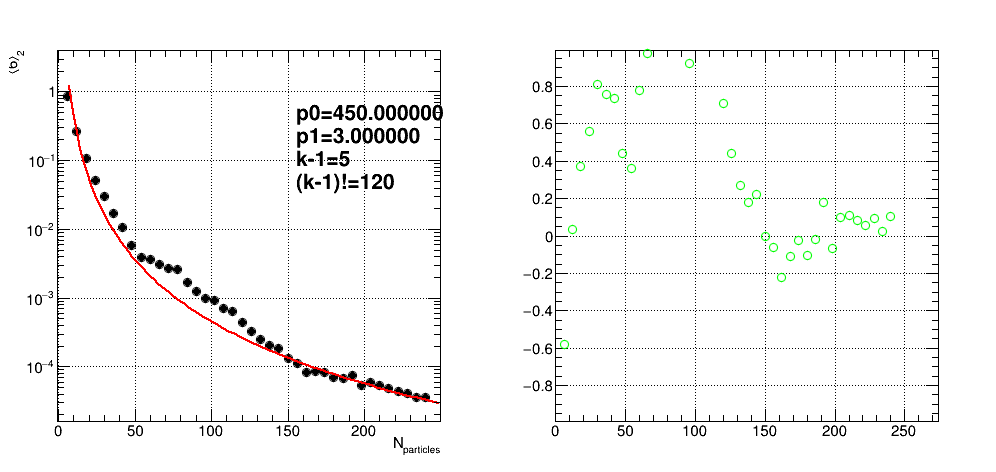
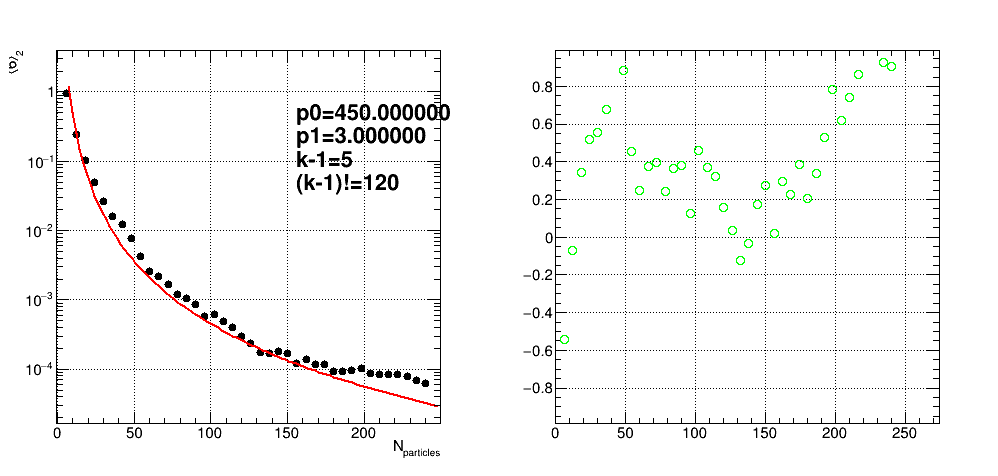
Added double Harmonics

diff --git a/RanGenX.C b/RanGenX.C
@@ -36,7 +36,9 @@ void execute(int sequences, int nparticles, int ntuple, int harmonic, double spa
 
   Init(nparticles); // initialize histograms
 
+  //cout<<"Generating Correlations."<<endl;
   // --- generate the correlations
+  //cout<<"Breaking around here."<<endl;
   for ( int j = 0; j < sequences; ++j )
     {
       if ( j % 10 == 0 ) cout << "Executing sequence j = " << j << endl;
@@ -45,7 +47,7 @@ void execute(int sequences, int nparticles, int ntuple, int harmonic, double spa
 	  get_corr(i,ntuple,harmonic,space,seed);
 	}
     }
-
+  //cout<<"Done Generating Correlations."<<endl;
   // --- Use a time struct to get the current date and time to append to the output file names
   time_t t = time(NULL);
   struct tm tm = *localtime(&t);
@@ -67,6 +69,7 @@ void execute(int sequences, int nparticles, int ntuple, int harmonic, double spa
   //--- make an output file to write the histograms
   TFile* HistFile = new TFile(outfilename,"recreate");
   HistFile->cd();
+  cout<<"Writing Hists to File."<<endl;
   // --- write recursion histo
   for ( int cs = 0; cs < 2; ++cs )
     {
@@ -75,10 +78,13 @@ void execute(int sequences, int nparticles, int ntuple, int harmonic, double spa
 	  hmult_recursion[cs][c]->Write();
         }
     }
+  //cout<<"Writing File"<<endl;
   HistFile->Write();
   cout << "Wrote histogram file " << HistFile->GetName() << endl;
+  HistFile->Close();
   delete HistFile;
 
+  //cout<<"Deleting Hists."<<endl;
   Delete(); // delete histograms
 
   gettimeofday(&Time,0);
@@ -107,7 +113,7 @@ void get_corr(int nparticles, int ntuple, int harmonic, double space, int seed)
   // than 100 and adds 1 -- if more than 100, than the program stops
 
   //int stop = nparticles/ntuple;
-
+  //cout<<"Starting For loop over particles"<<endl;
   for ( int i = 0; i < nparticles; ++i )
     {
       //double means an exact number, phi1 is the name of the double for particle 1.
@@ -157,9 +163,10 @@ void get_corr(int nparticles, int ntuple, int harmonic, double space, int seed)
 
 
     } // end of nparticles for loop
-
+  //cout<<"Done Generating Particles, doing Recursion"<<endl;
   do_recursion(ang,harmonic);
-
+  //cout<<"Done with Recursion"<<endl;
+  
   return;
 
 } //end of get_corr
@@ -262,10 +269,83 @@ void do_recursion(vector<double>& ang, int harmonic)
   hmult_recursion[0][6]->Fill(mult,eightRecursion.Re(),wEightRecursion);
   hmult_recursion[1][6]->Fill(mult,eightRecursion.Im(),wEightRecursion);
 
+
+
+  // ---------------------------------------------------------------------------------------
+  // ---------------------------------------------------------------------------------------
+  // ---------------------------------------------------------------------------------------
+
+
+
+  int d_harmonic = 2*harmonic;
+  
+  //  2-p correlations
+  int d_harmonics_Two_Num[2] = {d_harmonic,-d_harmonic}; // d_harmonic*(1,-1)
+  int d_harmonics_Two_Den[2] = {0,0}; // recursion gives the right combinatorics
+  TComplex twod_Recursion = Recursion(2,d_harmonics_Two_Num)/Recursion(2,d_harmonics_Two_Den).Re();
+  //double spwTwod_Recursion = Recursion(2,d_harmonics_Two_Den).Re();
+  double wTwod_Recursion = 1.0;
+  d_hmult_recursion[0][0]->Fill(mult,twod_Recursion.Re(),wTwod_Recursion);
+  d_hmult_recursion[1][0]->Fill(mult,twod_Recursion.Im(),wTwod_Recursion);
+
+  //  3-p correlations
+  int d_harmonics_Three_Num[3] = {d_harmonic,d_harmonic,-2*d_harmonic}; // d_harmonic*(1,1,-2)
+  int d_harmonics_Three_Den[3] = {0,0,0}; // recursion gives the right combinatorics
+  TComplex threed_Recursion = Recursion(3,d_harmonics_Three_Num)/Recursion(3,d_harmonics_Three_Den).Re();
+  //double spwThreed_Recursion = Recursion(3,d_harmonics_Three_Den).Re();
+  double wThreed_Recursion = 1.0;
+  d_hmult_recursion[0][1]->Fill(mult,threed_Recursion.Re(),wThreed_Recursion);
+  d_hmult_recursion[1][1]->Fill(mult,threed_Recursion.Im(),wThreed_Recursion);
+
+  //  4-p correlations
+  int d_harmonics_Four_Num[4] = {d_harmonic,d_harmonic,-d_harmonic,-d_harmonic}; // d_harmonic*(1,1,-1,-1)
+  int d_harmonics_Four_Den[4] = {0,0,0,0};
+  TComplex fourd_Recursion = Recursion(4,d_harmonics_Four_Num)/Recursion(4,d_harmonics_Four_Den).Re();
+  //double spwFourd_Recursion = Recursion(4,d_harmonics_Four_Den).Re();
+  double wFourd_Recursion = 1.0;
+  d_hmult_recursion[0][2]->Fill(mult,fourd_Recursion.Re(),wFourd_Recursion);
+  d_hmult_recursion[1][2]->Fill(mult,fourd_Recursion.Im(),wFourd_Recursion);
+
+  //  5-p correlations
+  int d_harmonics_Five_Num[5] = {d_harmonic,d_harmonic,d_harmonic,-d_harmonic,-2*d_harmonic}; // d_harmonic*(1,1,1,-1,-2)
+  int d_harmonics_Five_Den[5] = {0,0,0,0,0}; // recursion gives the right combinatorics
+  TComplex fived_Recursion = Recursion(5,d_harmonics_Five_Num)/Recursion(5,d_harmonics_Five_Den).Re();
+  //double spwFived_Recursion = Recursion(5,d_harmonics_Five_Den).Re();
+  double wFived_Recursion = 1.0;
+  d_hmult_recursion[0][3]->Fill(mult,fived_Recursion.Re(),wFived_Recursion);
+  d_hmult_recursion[1][3]->Fill(mult,fived_Recursion.Im(),wFived_Recursion);
+
+  //  6-p correlations:
+  int d_harmonics_Six_Num[6] = {d_harmonic,d_harmonic,d_harmonic,-d_harmonic,-d_harmonic,-d_harmonic}; // d_harmonic*(1,1,1,-1,-1,-1)
+  int d_harmonics_Six_Den[6] = {0,0,0,0,0,0};
+  TComplex sixd_Recursion = Recursion(6,d_harmonics_Six_Num)/Recursion(6,d_harmonics_Six_Den).Re();
+  //double spwSixd_Recursion = Recursion(6,d_harmonics_Six_Den).Re();
+  double wSixd_Recursion = 1.0;
+  d_hmult_recursion[0][4]->Fill(mult,sixd_Recursion.Re(),wSixd_Recursion);
+  d_hmult_recursion[1][4]->Fill(mult,sixd_Recursion.Im(),wSixd_Recursion);
+
+  //  7-p correlations
+  int d_harmonics_Seven_Num[7] = {d_harmonic,d_harmonic,d_harmonic,d_harmonic,-d_harmonic,-d_harmonic,-2*d_harmonic}; // d_harmonic*(1,1,1,1,-1,-1,-2)
+  int d_harmonics_Seven_Den[7] = {0,0,0,0,0,0,0}; // recursion gives the right combinatorics
+  TComplex sevend_Recursion = Recursion(7,d_harmonics_Seven_Num)/Recursion(7,d_harmonics_Seven_Den).Re();
+  //double spwSevend_Recursion = Recursion(7,d_harmonics_Seven_Den).Re();
+  double wSevend_Recursion = 1.0;
+  d_hmult_recursion[0][5]->Fill(mult,sevend_Recursion.Re(),wSevend_Recursion);
+  d_hmult_recursion[1][5]->Fill(mult,sevend_Recursion.Im(),wSevend_Recursion);
+
+  //  8-p correlations
+  int d_harmonics_Eight_Num[8] = {d_harmonic,d_harmonic,d_harmonic,d_harmonic,-d_harmonic,-d_harmonic,-d_harmonic,-d_harmonic};
+  int d_harmonics_Eight_Den[8] = {0,0,0,0,0,0,0,0};
+  TComplex eightd_Recursion = Recursion(8,d_harmonics_Eight_Num)/Recursion(8,d_harmonics_Eight_Den).Re();
+  //double spwEightd_Recursion = Recursion(8,d_harmonics_Eight_Den).Re();
+  double wEightd_Recursion = 1.0;
+  d_hmult_recursion[0][6]->Fill(mult,eightd_Recursion.Re(),wEightd_Recursion);
+  d_hmult_recursion[1][6]->Fill(mult,eightd_Recursion.Im(),wEightd_Recursion);
+
   // --- print statements for diagnostic purposes
-  //cout << twoRecursion.Re() << endl;
-  //cout << fourRecursion.Re() << endl;
-  //cout << sixRecursion.Re() << endl;
-  //cout << eightRecursion.Re() << endl;
+  //cout << twod_Recursion.Re() << endl;
+  //cout << fourd_Recursion.Re() << endl;
+  //cout << sixd_Recursion.Re() << endl;
+  //cout << eightd_Recursion.Re() << endl;
 
 } // end do_recursion functions

diff --git a/Recursion.C b/Recursion.C
@@ -1,9 +1,10 @@
 const int maxCorrelator = 12;
-const int maxHarmonic = 10;
+const int maxHarmonic = 20;
 const int maxPower = 9;
 TComplex Qvector[maxHarmonic][maxPower];
 
 TProfile* hmult_recursion[2][maxCorrelator];
+TProfile* d_hmult_recursion[2][maxCorrelator];
 
 TComplex Q(int, int);
 TComplex Recursion(int, int*);
@@ -74,6 +75,7 @@ void Init(int n)
       for(int c = 0; c < maxCorrelator; ++c )
         {
           hmult_recursion[cs][c] = new TProfile(Form("hmult_recursion_%d_%d",cs,c),"",n,-0.5,(double)n-0.5,-1.1,1.1);
+          d_hmult_recursion[cs][c] = new TProfile(Form("d_hmult_recursion_%d_%d",cs,c),"",n,-0.5,(double)n-0.5,-1.1,1.1);
         }
     }
 }
@@ -85,6 +87,7 @@ void Delete()
       for(int c = 0; c < maxCorrelator; ++c )
         {
           delete hmult_recursion[cs][c];
+          delete d_hmult_recursion[cs][c];
         }
     }
 }
